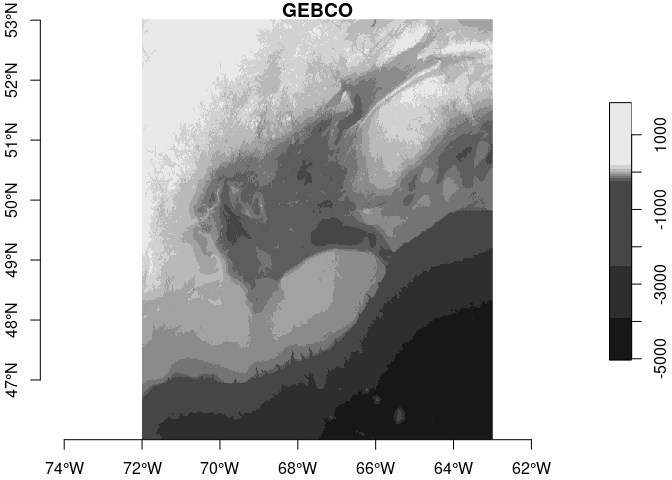
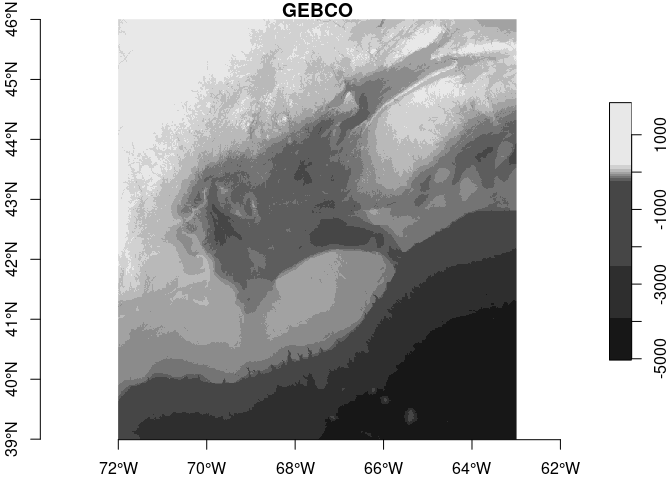
correct issue when cropping etopo and gebco

diff --git a/README.md b/README.md
@@ -92,9 +92,9 @@ etopo
     ##         Min.   1st Qu.   Median      Mean  3rd Qu.     Max.
     ## z  -5021.792 -1730.825 -95.4375 -908.8038 38.10166 1653.262
     ## dimension(s):
-    ##   from  to   offset     delta refsys x/y
-    ## x    1 542 -72.0167 0.0166667 WGS 84 [x]
-    ## y    1 422  46.0167 0.0166667 WGS 84 [y]
+    ##   from  to   offset      delta refsys x/y
+    ## x    1 542 -72.0167  0.0166667 WGS 84 [x]
+    ## y    1 422  46.0167 -0.0166667 WGS 84 [y]
 
 ``` r
 (gebco_files = list_gebco())
@@ -110,12 +110,12 @@ gebco
 
     ## stars object with 2 dimensions and 1 attribute
     ## attribute(s), summary of first 1e+05 cells:
-    ##     Min. 1st Qu. Median      Mean 3rd Qu.  Max.
-    ## z  -5036   -4775  -3697 -3802.374   -2819 -1723
+    ##    Min. 1st Qu. Median     Mean 3rd Qu. Max.
+    ## z   -78      47    154 195.0478     326 1502
     ## dimension(s):
-    ##   from   to   offset      delta refsys x/y
-    ## x    1 2162 -72.0042 0.00416667 WGS 84 [x]
-    ## y    1 1682  46.0042 0.00416667 WGS 84 [y]
+    ##   from   to   offset       delta                     refsys x/y
+    ## x    1 2162 -72.0042  0.00416667 +proj=longlat +datum=WGS84 [x]
+    ## y    1 1682  46.0042 -0.00416667 +proj=longlat +datum=WGS84 [y]
 
 Note that the GEBCO data provides approximately 4x the resolution of the
 ETOPO1 data.
